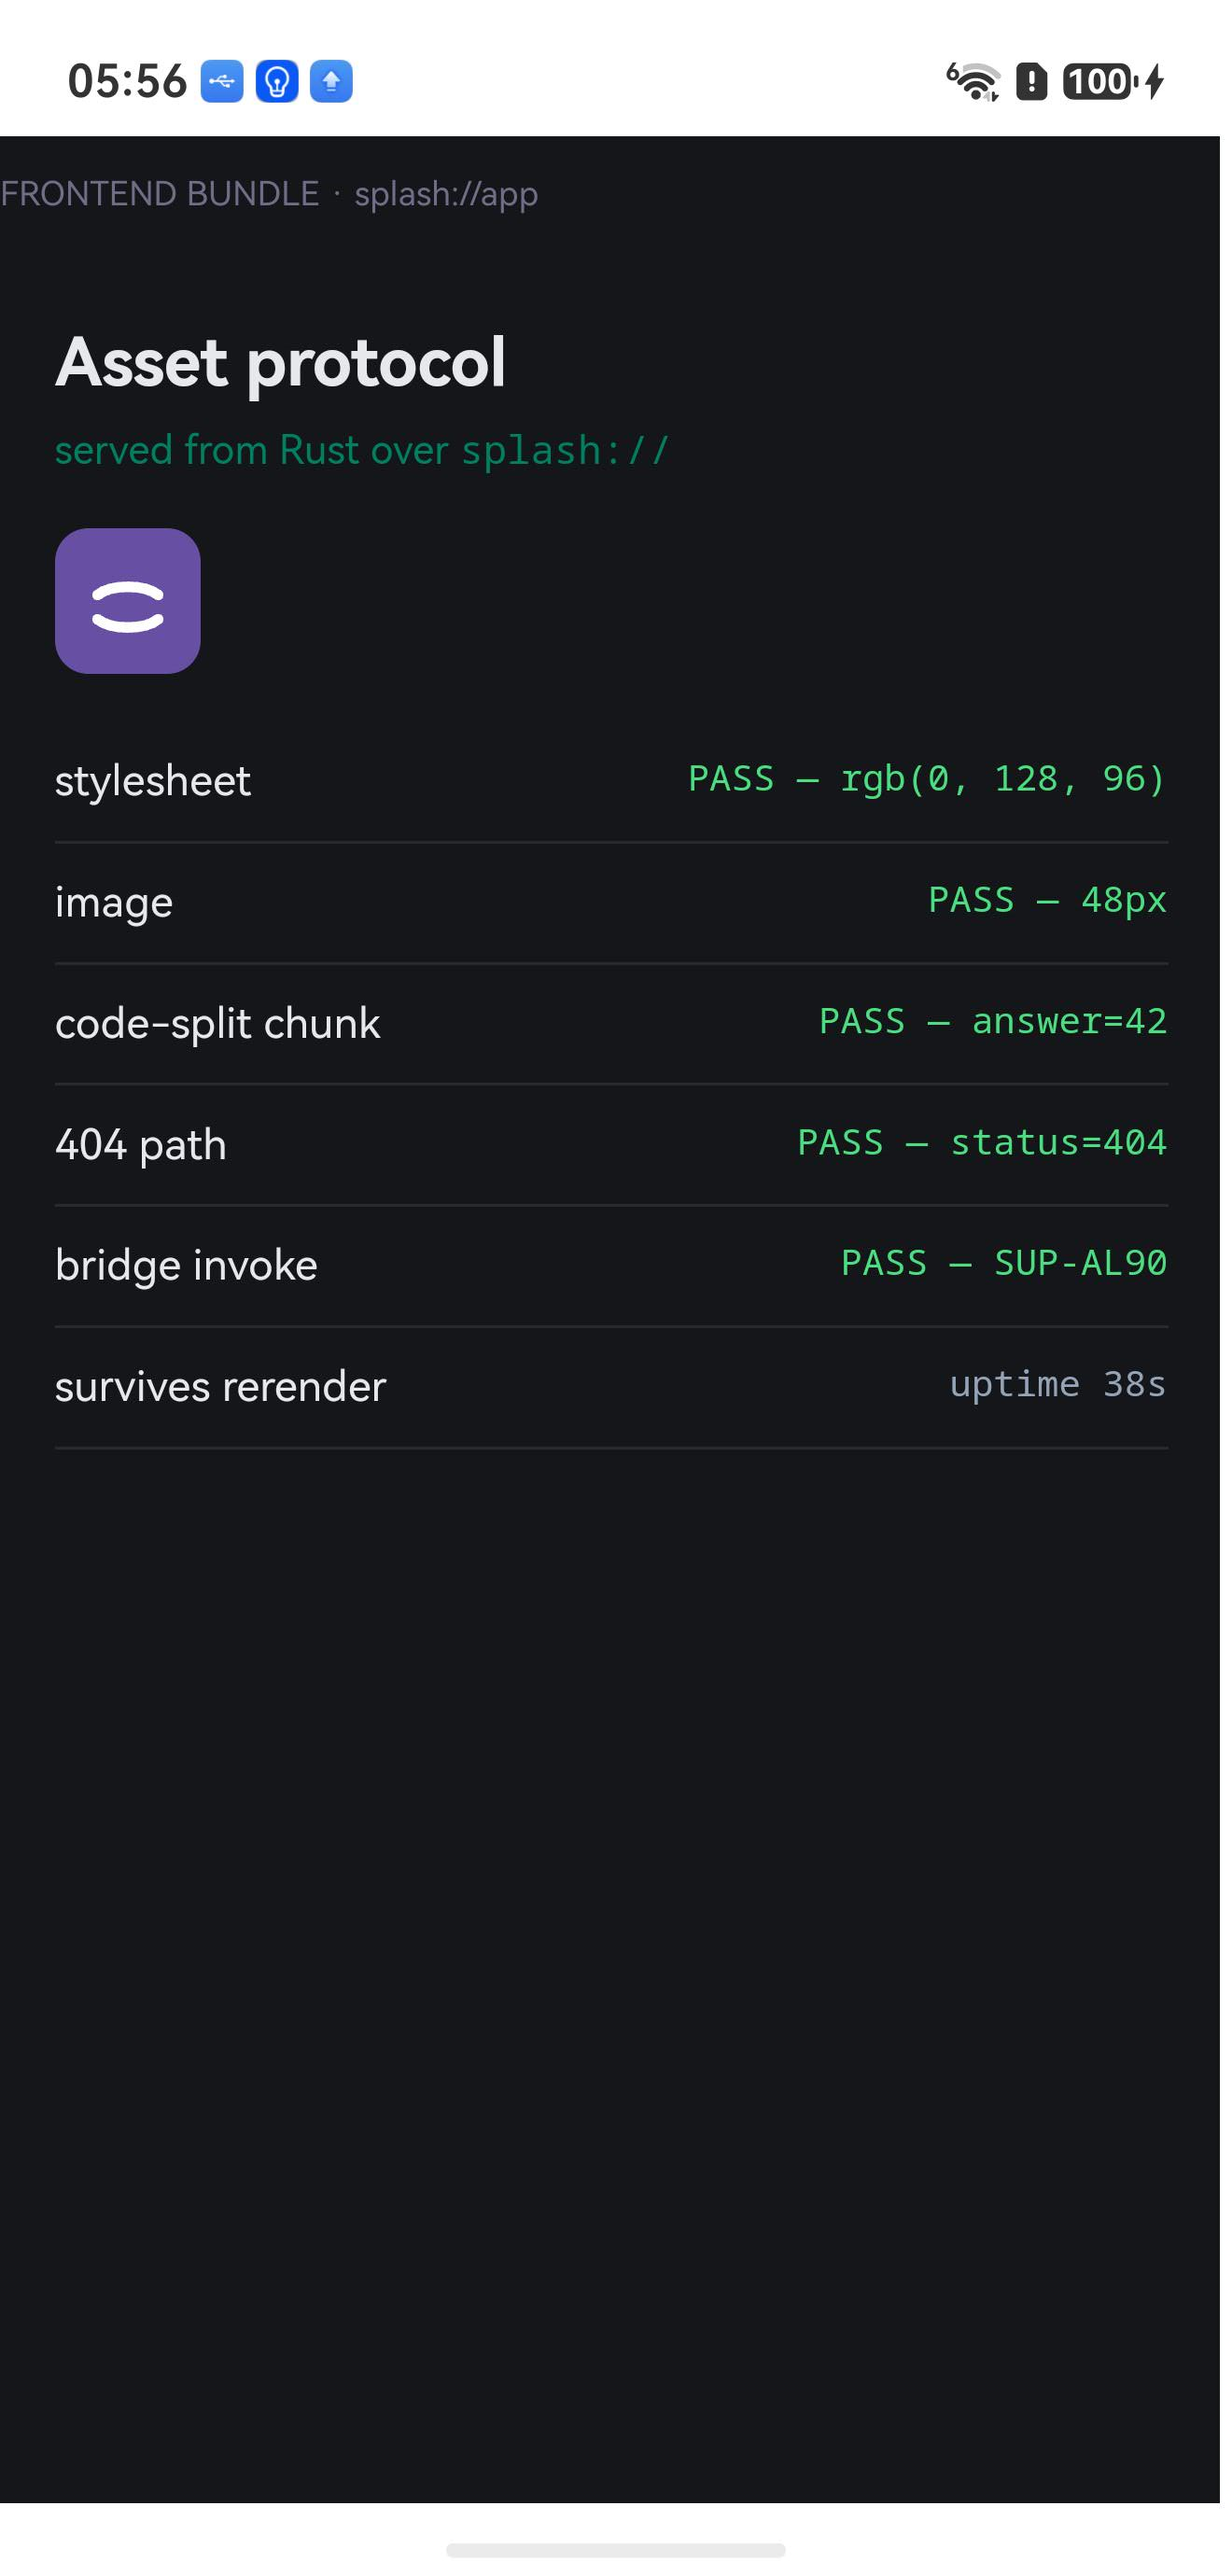
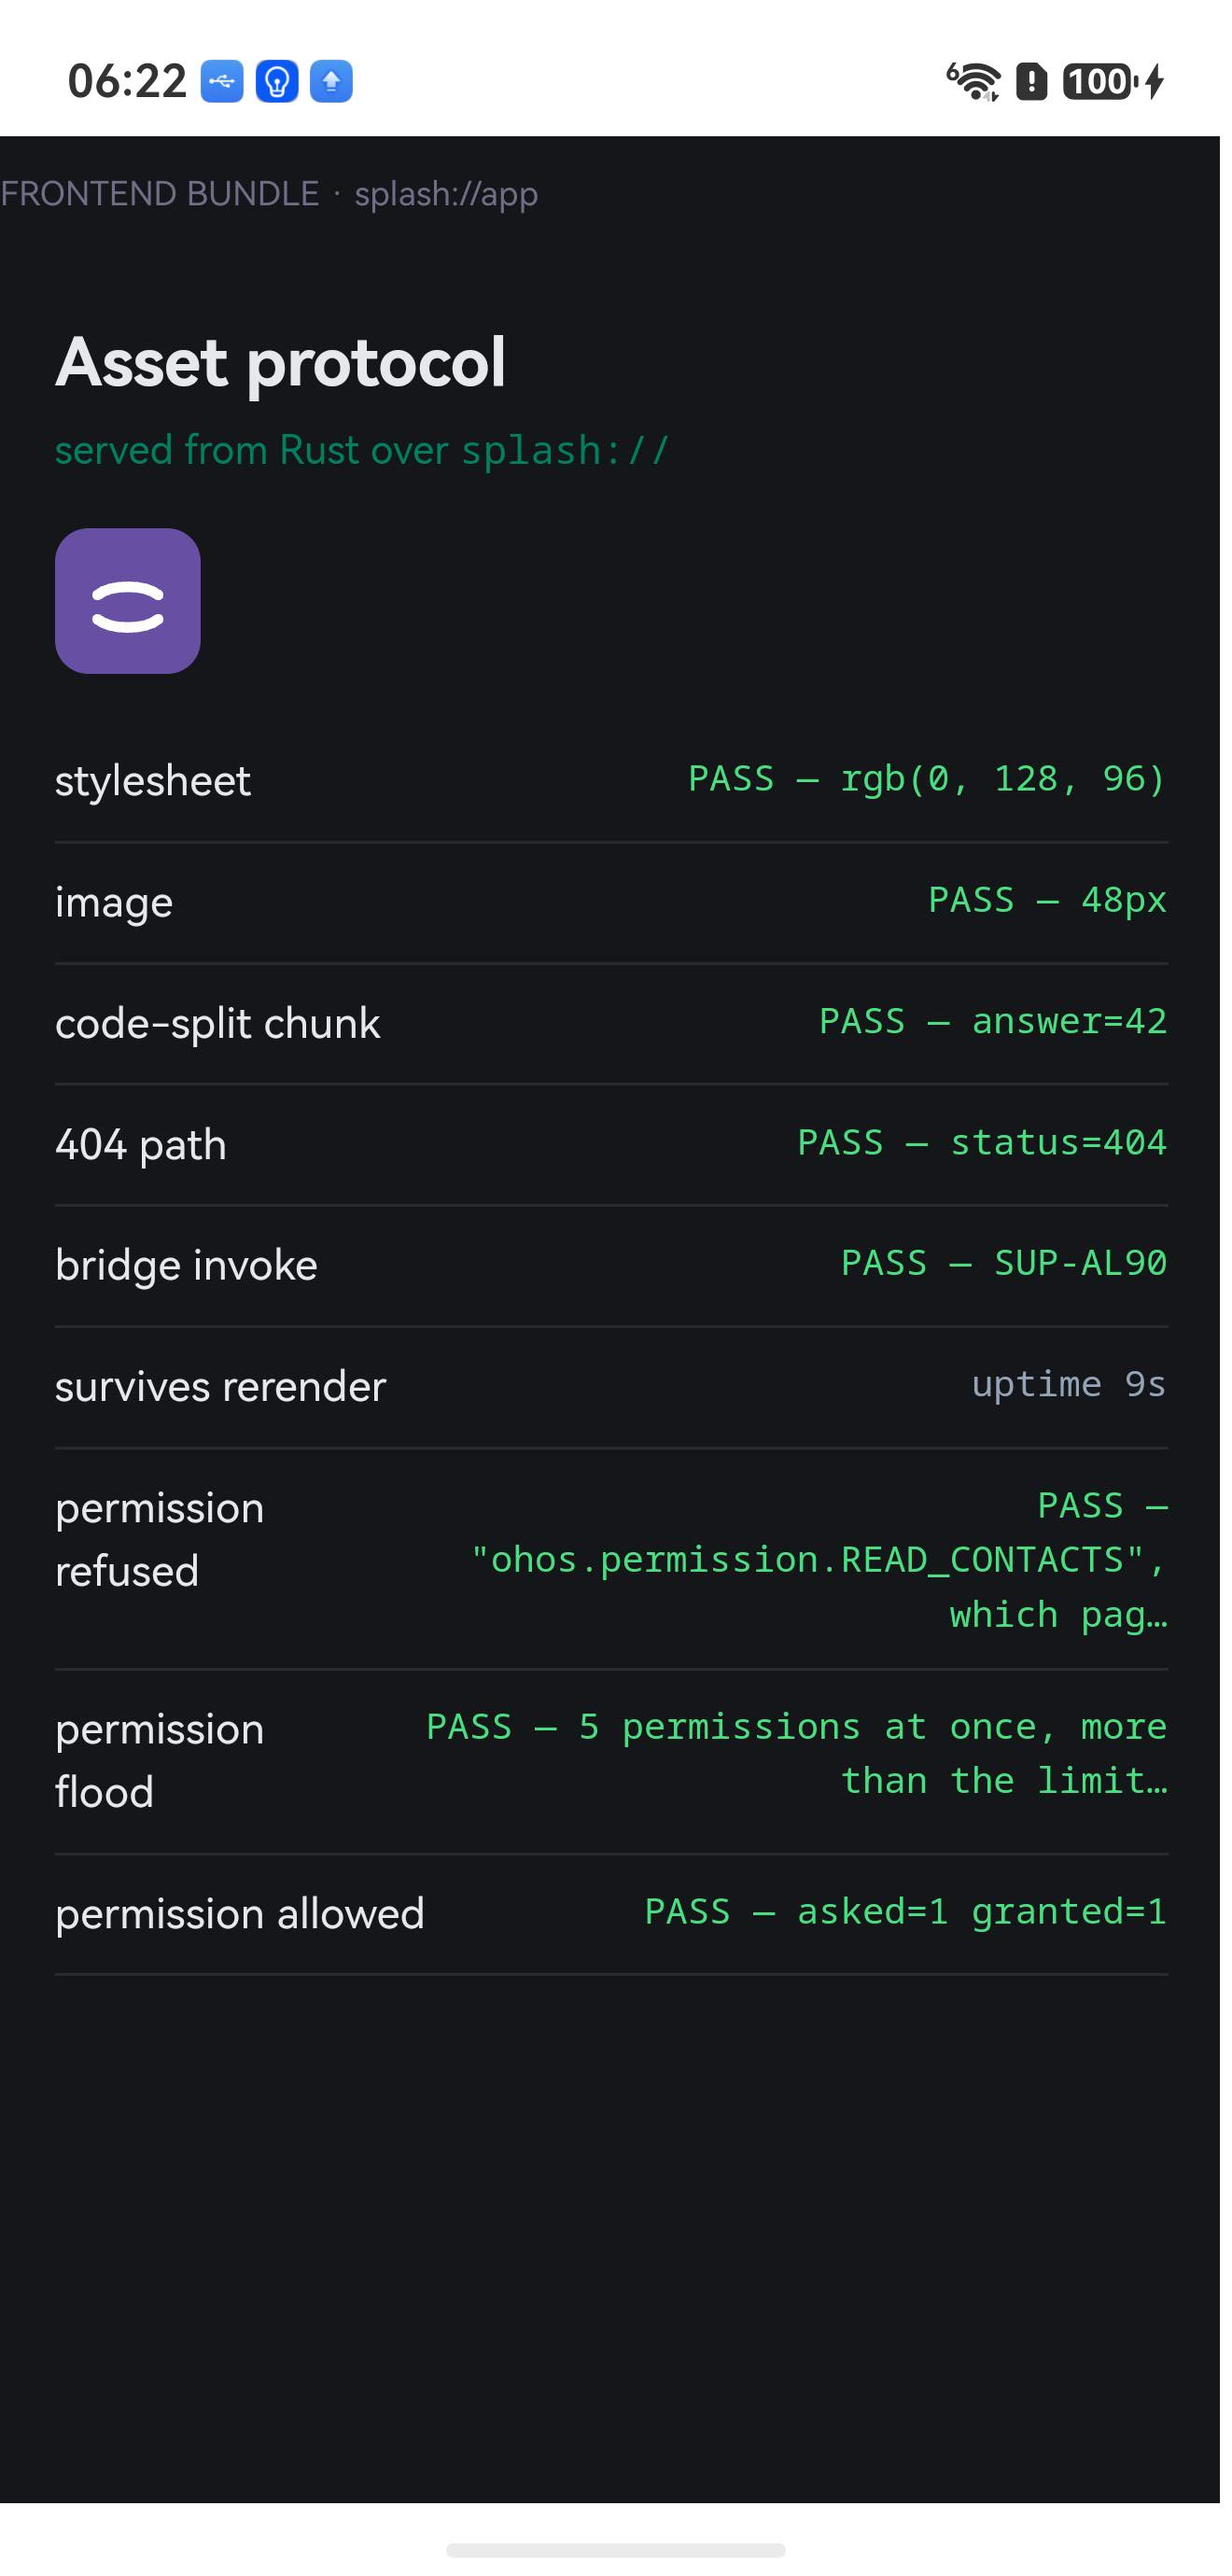
Vet permission requests instead of forwarding whatever a page names
`permission.request` took an arbitrary string or array and parked it straight
to `requestPermissionsFromUser`. The app declares eleven permissions in
module.json5, and any trusted page could raise a dialog for any of them at any
moment, in any context -- and trust is still one bit, so every trusted page had
that power.

Requests are now checked against a list of the five user_grant permissions a
page may ask for, with a cap of four per request. The other six declared
permissions (INTERNET, VIBRATE, GET_NETWORK_INFO, GET_WIFI_INFO, ACCELEROMETER,
GYROSCOPE) are granted at install, so a runtime prompt for them means nothing;
asking is a mistake rather than a risk, and it is refused as one so the mistake
is visible instead of silently doing nothing.

A bad name fails the whole call rather than being filtered out of it. Dropping
one silently would leave the page believing it had asked and the user believing
they had answered.

Both directions are in the bundle's own fixture, on device:

    permission refused   PASS   "ohos.permission.READ_CONTACTS", which pages...
    permission flood     PASS   5 permissions at once, more than the limit...
    permission allowed   PASS   asked=1 granted=1

The allow row first read "reached the OS" on the strength of the promise having
resolved, which would have held just as well if the call had been quietly
dropped. It now asserts on `asked` -- the count ArkTS builds from the OS's own
[…]

diff --git a/crates/splash-oh/assets/app/app.js b/crates/splash-oh/assets/app/app.js
@@ -63,3 +63,41 @@ setInterval(function () {
     el.className = 'note';
   }
 }, 250);
+
+// 7-9. Permission requests. `permission.request` used to forward whatever names
+//      a page passed straight to requestPermissionsFromUser, so any trusted
+//      page could raise a camera or microphone dialog whenever it liked.
+//
+//      Both directions are checked here, because a gate proven only in the deny
+//      direction is a gate that might refuse everything.
+function permCheck(id, names, wantRefused) {
+  if (!window.splash || !window.splash.invoke) { mark(id, false, 'no shim'); return; }
+  window.splash.invoke('permission.request', names)
+    .then(function (r) {
+      // For the allow direction, "the promise resolved" is not the pass
+      // condition -- that would hold even if the call had been quietly dropped.
+      // ArkTS builds {granted, asked} from the OS result, so `asked` counting
+      // what was sent is what shows the request actually got there. What the
+      // user then taps is not this test's business.
+      var reached = !!(r && r.asked === names.length);
+      mark(id, wantRefused ? false : reached,
+        wantRefused ? 'NOT refused: ' + JSON.stringify(r)
+                    : 'asked=' + (r && r.asked) + ' granted=' + ((r && r.granted) || []).length);
+    })
+    .catch(function (e) {
+      var msg = String(e && e.message ? e.message : e);
+      mark(id, wantRefused, msg.length > 42 ? msg.slice(0, 42) + '…' : msg);
+    });
+}
+
+// Not declared by the app and not page-requestable.
+permCheck('r-perm-bad', ['ohos.permission.READ_CONTACTS'], true);
+// Five at once, over the per-request limit.
+permCheck('r-perm-many', ['ohos.permission.CAMERA', 'ohos.permission.MICROPHONE',
+  'ohos.permission.LOCATION', 'ohos.permission.APPROXIMATELY_LOCATION',
+  'ohos.permission.ACCESS_BLUETOOTH'], true);
+// The allow direction. Deferred, because a real prompt covers the page and the
+// rows above should be legible in a screenshot before it appears.
+setTimeout(function () {
+  permCheck('r-perm-ok', ['ohos.permission.LOCATION'], false);
+}, 6000);

diff --git a/crates/splash-oh/assets/app/index.html b/crates/splash-oh/assets/app/index.html
@@ -23,6 +23,9 @@
   <li id="r-404">404 path<span>…</span></li>
   <li id="r-bridge">bridge invoke<span>…</span></li>
   <li id="r-state">survives rerender<span>…</span></li>
+  <li id="r-perm-bad">permission refused<span>…</span></li>
+  <li id="r-perm-many">permission flood<span>…</span></li>
+  <li id="r-perm-ok">permission allowed<span>…</span></li>
 </ul>
 
 <script src="/app.js"></script>

diff --git a/crates/splash-oh/src/bridge.rs b/crates/splash-oh/src/bridge.rs
@@ -890,7 +890,13 @@ pub fn invoke(slot: u32, call_id: String, tool: String, args_raw: String) {
             } else {
                 format!("[{}]", json_str(&args.text()))
             };
-            park_arkts(slot, call_id, "permission.request", &list);
+            match vet_permissions(&list) {
+                Ok(vetted) => park_arkts(slot, call_id, "permission.request", &vetted),
+                Err(why) => {
+                    crate::log(&format!("bridge: slot {slot} asked for {why}"));
+                    reply(slot, call_id, err(&why));
+                }
+            }
         }
 
         // Cellular network state: operator, technology, roaming. A page has
@@ -1208,6 +1214,60 @@ pub fn invoke(slot: u32, call_id: String, tool: String, args_raw: String) {
 /// an open one turns every card into a proxy for reaching anything the phone
 /// can reach. Suffix-matched on a label boundary, so `open-meteo.com` covers
 /// `api.` and `geocoding-api.` but not `evil-open-meteo.com`.
+/// Permissions a page is allowed to ask the user for.
+///
+/// The app declares eleven in `module.json5`, but declaring one and letting a
+/// *page* prompt for it are different decisions. This tool used to forward
+/// whatever names arrived straight to `requestPermissionsFromUser`, so any
+/// trusted page could raise a camera or microphone dialog at any moment, in any
+/// context — and trust is still one bit, so every trusted page had that power.
+///
+/// Only the user_grant permissions are here, because they are the only ones a
+/// runtime prompt means anything for. The rest (INTERNET, VIBRATE,
+/// GET_NETWORK_INFO, GET_WIFI_INFO, ACCELEROMETER, GYROSCOPE) are granted at
+/// install; asking for them is a mistake rather than a risk, and it is refused
+/// as one so the mistake is visible instead of silently doing nothing.
+///
+/// This is a static list, which is the honest minimum rather than the finished
+/// answer. The real shape is per-page capability declarations — the same place
+/// the HTTP host allowlist below should end up.
+const PAGE_REQUESTABLE_PERMISSIONS: &[&str] = &[
+    "ohos.permission.LOCATION",
+    "ohos.permission.APPROXIMATELY_LOCATION",
+    "ohos.permission.CAMERA",
+    "ohos.permission.MICROPHONE",
+    "ohos.permission.ACCESS_BLUETOOTH",
+];
+
+/// At most this many permissions in one request. A page with a legitimate
+/// reason asks for one or two; a list of thirty is a prompt-fatigue attack.
+const MAX_PERMISSIONS_PER_REQUEST: usize = 4;
+
+/// Check a requested permission list, or say why it was refused.
+///
+/// Fails the whole call rather than filtering the bad names out. Silently
+/// dropping one would leave the page believing it had asked, and the user
+/// believing they had answered.
+fn vet_permissions(list_json: &str) -> Result<String, String> {
+    let names: Vec<String> = serde_json::from_str(list_json)
+        .map_err(|_| "a permission list that is not an array of strings".to_string())?;
+    if names.is_empty() {
+        return Err("no permissions at all".to_string());
+    }
+    if names.len() > MAX_PERMISSIONS_PER_REQUEST {
+        return Err(format!(
+            "{} permissions at once, more than the limit of {MAX_PERMISSIONS_PER_REQUEST}",
+            names.len()
+        ));
+    }
+    for n in &names {
+        if !PAGE_REQUESTABLE_PERMISSIONS.contains(&n.as_str()) {
+            return Err(format!("{n:?}, which pages may not request"));
+        }
+    }
+    Ok(list_json.to_string())
+}
+
 const HTTP_GET_ALLOWED_HOSTS: &[&str] = &[
     "open-meteo.com",
     "api.open-meteo.com",
